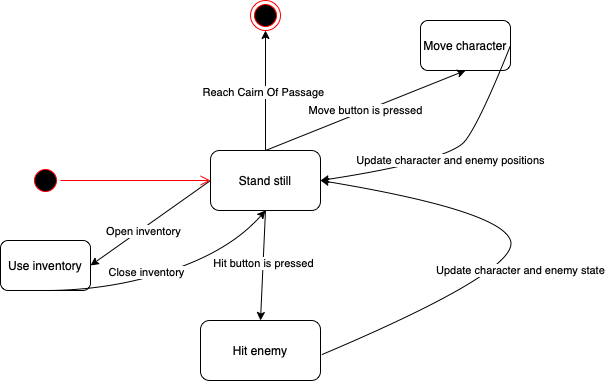
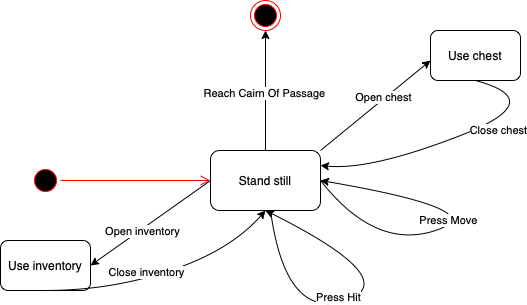
Fix diagrams and rewrite documantation

diff --git a/README.md b/README.md
@@ -7,20 +7,16 @@
 
 ## Общие сведения о системе
 
-Реализация игры, основанной на подземелье Palace of the dead из FFXIV с консольной графикой
+Реализация игры, основанной на rogue-like подземелье `Palace of the Dead` из игры FFXIV с консольной графикой. 
+`Palace of the Dead` – постоянно меняющееся подземелье, архитектура которого никогда не бывает одинаковой.
+Цель `Palace of the Dead` состоит в том, чтобы спускаться по этажам, сражаясь с существами по пути, пока в конечном итоге не достигнете босса, который ждет на нижнем уровне.
+
 ### Границы системы
 
 - Поддержка однопользовательского оффлайн-режима
 - Консольная графика
 - Управление с помощью клавиатуры
-- Главное меню:
-    - два слота для сохранения текущего прогресса
-    - описание текущего состояния экипировки и оружия
-    - краткая инструкция по игре
-
 - Случайная генерация карт для уровней (количество комнат и расположение противников)
-- Помимо игрового поля на экране отображаются панели с текущими состояниями экипировки, оружия, здоровья, а также
-  инвентарь
 
 ### Контекст системы
 - Приложение должно поддерживаться на MacOS, Linux и Windows
@@ -34,7 +30,6 @@
 - Использование open-source библиотек
 ### Качественные характеристики системы
 - Изменяемая система: возможность добавления новых врагов и оружий
-- Не требуется высокая производительность за счет использования консольной графики
 - Система не имеет доступа к личным данным пользователя
 ### Функциональные требования
 - Консольная графика
@@ -42,20 +37,15 @@
 - Игрок управляет одним персонажем
 - У персонажа есть:
     - шкала здоровья
+    - шкала опыта
     - экипировка
-    - оружие (меч, посох, пистолет, ...)
-- Игрок может выбрать в начале игры разное оружие для сражения
-- От вида оружия зависит радиус поражения, время удара (cast time) и количество наносимого урона
+    - оружие (меч, посох, ...)
+- Игрок может выбирать разное оружие для сражения
+- От вида оружия зависит количество наносимого урона
 - Существуют различные виды противников: разный радиус, в котором они замечают персонажа и разное количество наносимого урона за удар
-- За убийство противников может с некоторой вероятностью выпасть зелья для лечения здоровья
 - Персонаж может взаимодействовать с предметами на карте:
-    - сундуки, дающие зелья, которые улучшают экипировку, оружие или здоровье
-- Сохранение только после 5-го уровня
-- Игра состоит из 10 уровней:
-    - Первые 9 уровней – карта состоит из нескольких комнат с некоторым количеством противников
-    - Последний уровень – одна комната с противником-боссом
-
-
+    - сундуки, дающие экипировку или оружие
+ 
 ## Роли и случаи использования
 
 Роли:
@@ -64,7 +54,7 @@
 
 Случаи использования: 
 - Игрок хочет сыграть в одну признанную критиками игру, однако по определенным причинам (недостаточно свободного места на диске, малое количество свободного времени) он не может этого сделать. 
-Ему важно, чтобы прохождение игры не занимало много времени, была возможность опробовать различные классы персонажей и чтобы структура уровней навевало приятные воспоминания об оригинальной игре.
+Ему важно, чтобы прохождение игры не занимало много времени, была возможность опробовать различные классы персонажей и чтобы структура уровней навевала приятные воспоминания об оригинальной игре.
 - Программисту для добавления новых уровней или врагов хотелось бы потратить минимально возможное количество времени для обретения понимания того, с какой частью кода и как стоит работать, поэтому 
 должно присутствовать качественное описание системы и архитектура, позволяющая вести работу только с некоторыми точками расширения
 
@@ -85,35 +75,39 @@
 - **App** - точка входа в приложение, считывает ввод пользователя и передает на дальнейшую обработку
 - **Controller:**
   - **Inventory Logic** - обработка ввода пользователя в случае работы с инвентарем
-  - **Map Logic** - обработка ввода пользователя во время управления персонажем в ходе игры
+  - **Game Logic** - обработка ввода пользователя во время управления персонажем в ходе игры
   - **System Logic** - обработка ввода пользователя во время работы с меню
 - **Model:**
-  - **Inventory Model** - состояние инвентаря
-  - **Map Model** - состояние игрового поля
+  - **Game Model** - состояние игры
 - **View**
   - **Inventory View** - отображение окна с инвентарем
-  - **Map View** - отображение текущего игрового процесса
-    - **System View** - отображение главного меню игры 
+  - **Game View** - отображение текущего игрового процесса
+  - **System View** - отображение главного меню игры 
 
 ## Логическая структура
 ![Classes](resources/classes.png)
 
-- **App** - запускает основное приложение, считывает нажатие клавиш, передает их в **InputHandler** на обработку
-- **InputHandler** - обрабатывает поступившие от пользователя действия на основе текущего состояния `State` с помощью метода `handleInput`
-- **EventHandler** - интерфейс, отвечающий за исполнение ввода пользователя (`KeyEvent`)
-  - **MapHandler** - отвечает за текущее состояние игры - состояние карты(`Map`), управление персонажем(`Hero`)
-  - **SystemHandler** - отвечает за работу с главным меню(`Menu`) - позволяет загрузить сохраненную игру(`SaveSlot`), удалить сохраненную игру и прочитать правила игры
-  - **InventoryHandler** - отвечает за работу с инвентарем – позволяет использовать различные виды зелий(`Potion`)
-- **Map** - хранит карту текущего уровня, состоящую из клеток (`Cell`) с расположением персонажа и противником
+- **App** - основное приложение, обрабатывает поступившие от пользователя действия на основе текущего состояния `State` при помощи `EventHandler`
+- **EventHandler** - интерфейс, отвечающий за исполнение ввода пользователя
+  - **GameHandler** - отвечает за текущее состояние игры (`GameModel`)
+  - **SystemHandler** - отвечает за работу с главным меню (`Menu`) - удалить сохраненную игру и прочитать правила игры
+  - **InventoryHandler** - отвечает за работу с инвентарем – позволяет надевать/снимать/выбрасывать экиперовку и оружие(`Potion`)
+- **GameModel** - хранит все элементы игровой карты: состояние инвентаря, различные виды блоков, вражеских существ и героя
+- **LevelLoader** - интерфейс, позволяющий загружать игровые уровни
+  - **DefaultLevelLoader** - стандартный загрузчик уровней, преобразующий json файлы, удовлетворяющие некоторому инварианту в игровое состояние (`GameModel`)  
+- **MapBuilder** – отвечает за создание карты уровня: либо загружает из json, либо генерирует новую
 - **Cell** - хранит расположение клетки на сетке карты, а также ее содержимое (`CellState`)
-- **SaveSlot** - хранит сохраненные игры - последний уровень и оружие, которым пользовался персонаж
-- **Enemy** - интерфейс, отвечающий за противников игрока - хранит радиус детектирования персонажа и уровень урона
-- **Hero** - хранит информацию о текущем персонаже - оружие и его состояние, уровень здоровья и состояние экипировки
-- **Inventory** - хранит накопленные персонажем зелья, имеет ограниченную вместимость
+- **Enemy** - базовый класс, от которого наследуются мобы
+  - **PassiveEnemy** - пассивный моб, стоящий все время на месте
+  - **CowardEnemy** - трусливый моб, убегающий при приближении героя
+  - **AggressiveEnemy** - агрессивный моб, который атакует героя, если он близко
+  - **ConfusedEnemy** - моб, находящийся под эффектом конфузии, перемещается, случайно выбирая соседнюю клетку
+- **Hero** - хранит информацию о текущем персонаже - уровень здоровья, количество опыта, оружие и его состояние, состояние экипировки и уровень брони
+- **Inventory** - хранит собранные персонажем вещи, имеет ограниченную вместимость
 - **View** - интерфейс, отвечающий за объекты, которые будут отображаться пользователю  
-  - **MapView** - отображение карты, персонажа, врагов и прочего основного процесса игры пользователю
+  - **GameView** - отображение карты, персонажа, врагов и прочего основного процесса игры пользователю
   - **SystemView** - отображение главного меню 
-  - **InventoryView** - отображение текущего инвентаря
+  - **InventoryView** - будет отображать текущий инвентарь
  
 ## Взаимодействия и состояния
 ### Диаграмма конечных автоматов – диаграмма прохождения уровня
@@ -121,14 +115,35 @@
 
 После загрузки уровня оказываемся в состоянии `Stand still`. 
 При нажатии клавиш `WASD` можем тратить ход на перемещение по карте по свободным клеткам. 
-При встрече с противником есть возможность атаковать его - для этого нажать соответствующую кнопку и, если противник окажется в радиусе действия оружия персонажа, начать атаку. 
-Атака может длиться несколько ходов, в эти ходы обновляется карта, а именно положение противника, а также состояние героя, в том случае если противник начал атаковать персонажа.
-Также есть возможность потратить ход на открытие инвентаря персонажа, где находятся зелья, которые персонаж может найти в сундуках, раскиданных по карте.
-При использовании зелья из инвентаря улучшаются соответствующие характеристики (состояние брони, оружия или здоровья).
+При встрече с противником есть возможность атаковать его - для этого надо шагнуть на клетку, занимаемую противником. 
+Атака длиться один ход, в этот ход атакует и противник, т.е любая атака сопровождается и ответным ударом. После атаки обновляется состояние героя и противника, если противник умер, то за него начисляется опыт.
+Также есть возможность потратить ход на открытие инвентаря персонажа, где находится оружие или экипировка.
+При надевании вещи из инвентаря улучшаются соответствующие характеристики (состояние брони, оружия или здоровья).
 Уровень считается пройденным, как только персонаж добрался до клетки с выходом (`Cairn of passage`)
 
 ### Диаграмма последовательностей - диаграмма начала игрового процесса
 ![Sequence](resources/sequence.png)
 
-Пользователь(`Player`) своим действием на клавиатуре создает `KeyEvent`(в данном случае выбор элемента из меню), `SystemHandler` распознает это действие как начало игры(`startGame`). Далее вызывается компонента, отвечающая за состояние игры(`MapHandler`). Она в свою очередь занимается генерацией поля (`Map`), инициализацией персонажа (`Hero`) и его врагов (`Enemy`).
-Вся полученная `MapHandler'ом` информация хранится в `Map`, так как именно там хранится информация о типе каждой из клеток (`Cell`).
+Пользователь(`Player`) своим действием на клавиатуре создает `KeyEvent`(в данном случае выбор элемента из меню), `SystemHandler` распознает это действие как начало игры(`startGame`). Далее вызывается компонента, отвечающая за состояние игры(`GameHandler`). Она в свою очередь занимается загрузкой уровня (`GameModel`), инициализацией персонажа (`Hero`) и его врагов (`Enemy`).
+Вся полученная `GameHandler'ом` информация хранится в `GameModel`, так как именно там хранится информация о типе каждой из клеток (`Cell`).
+
+
+### Выбор вреймворка
+При выборе библиотеки для создания игры на Python были отобраны 3 варианта: Pygame, Arcade, Cocos2d. 
+Обращалось внимание на качество документации, гайдов и уроков, на удобство написания кода и на уже созданные игры.
+Pygame - это проверенная временем бесплатная и open-source библиотека. За время ее существования появилось много уроков и гайдов по ее изучению, большое количество красивых игр.
+Arcade - это современная библиотека для создания игр. Arcade и Pygame очень похожи друг на друга: похожая функциональность, иногда кажется, что различия только в названиях классов и методов. Но есть и что-то новое, чего еще нет в Pygame.
+Cocos2d - это фреймворк для создания 2D-игр, демонстраций и других графических/интерактивных приложений. Слабая документация - на официальном сайте ссылка с документацией ведет в никуда.
+Мы остановились на Pygame в силу его проверенности и наличия довольно хорошей документации.
+
+### Как запустить
+```
+# install the required packages
+pip install -r requirements.txt
+
+# run CLI app 
+python3 -m src.app
+
+# run tests
+pytest
+```
